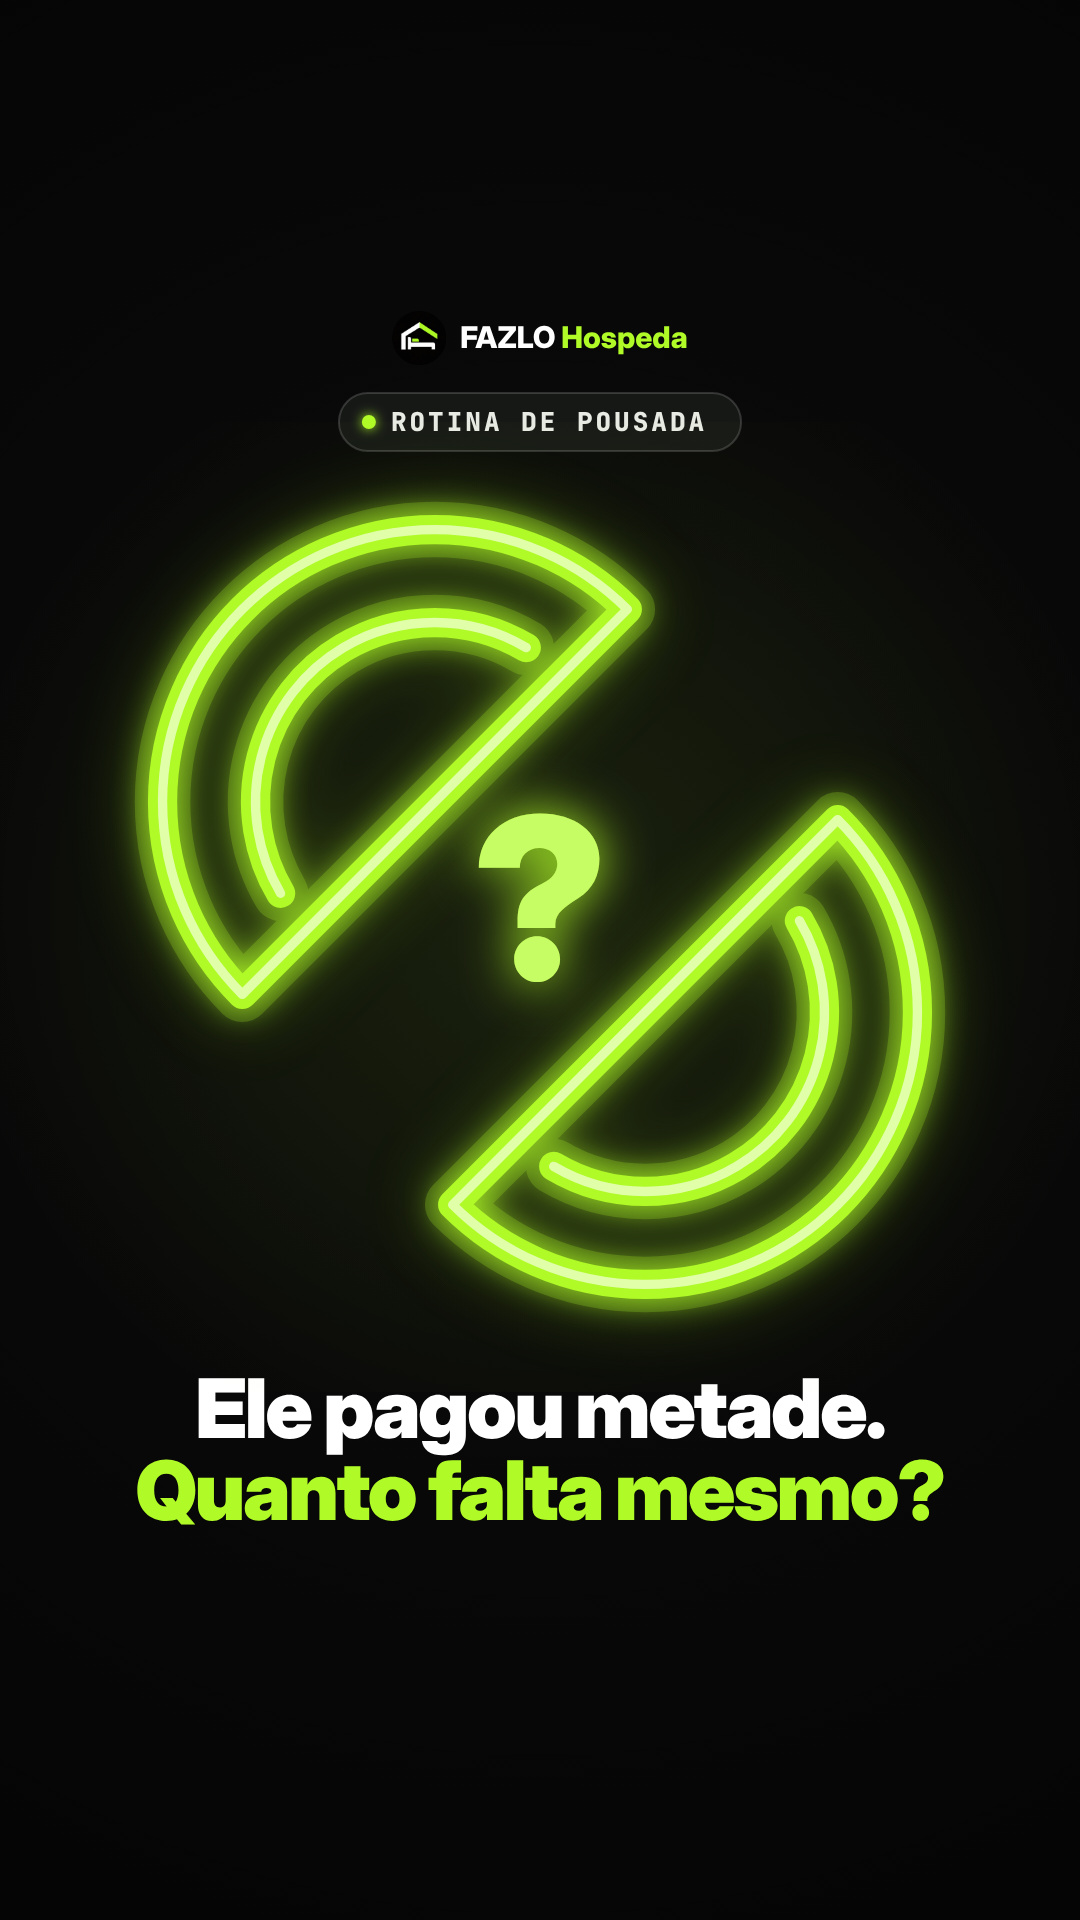
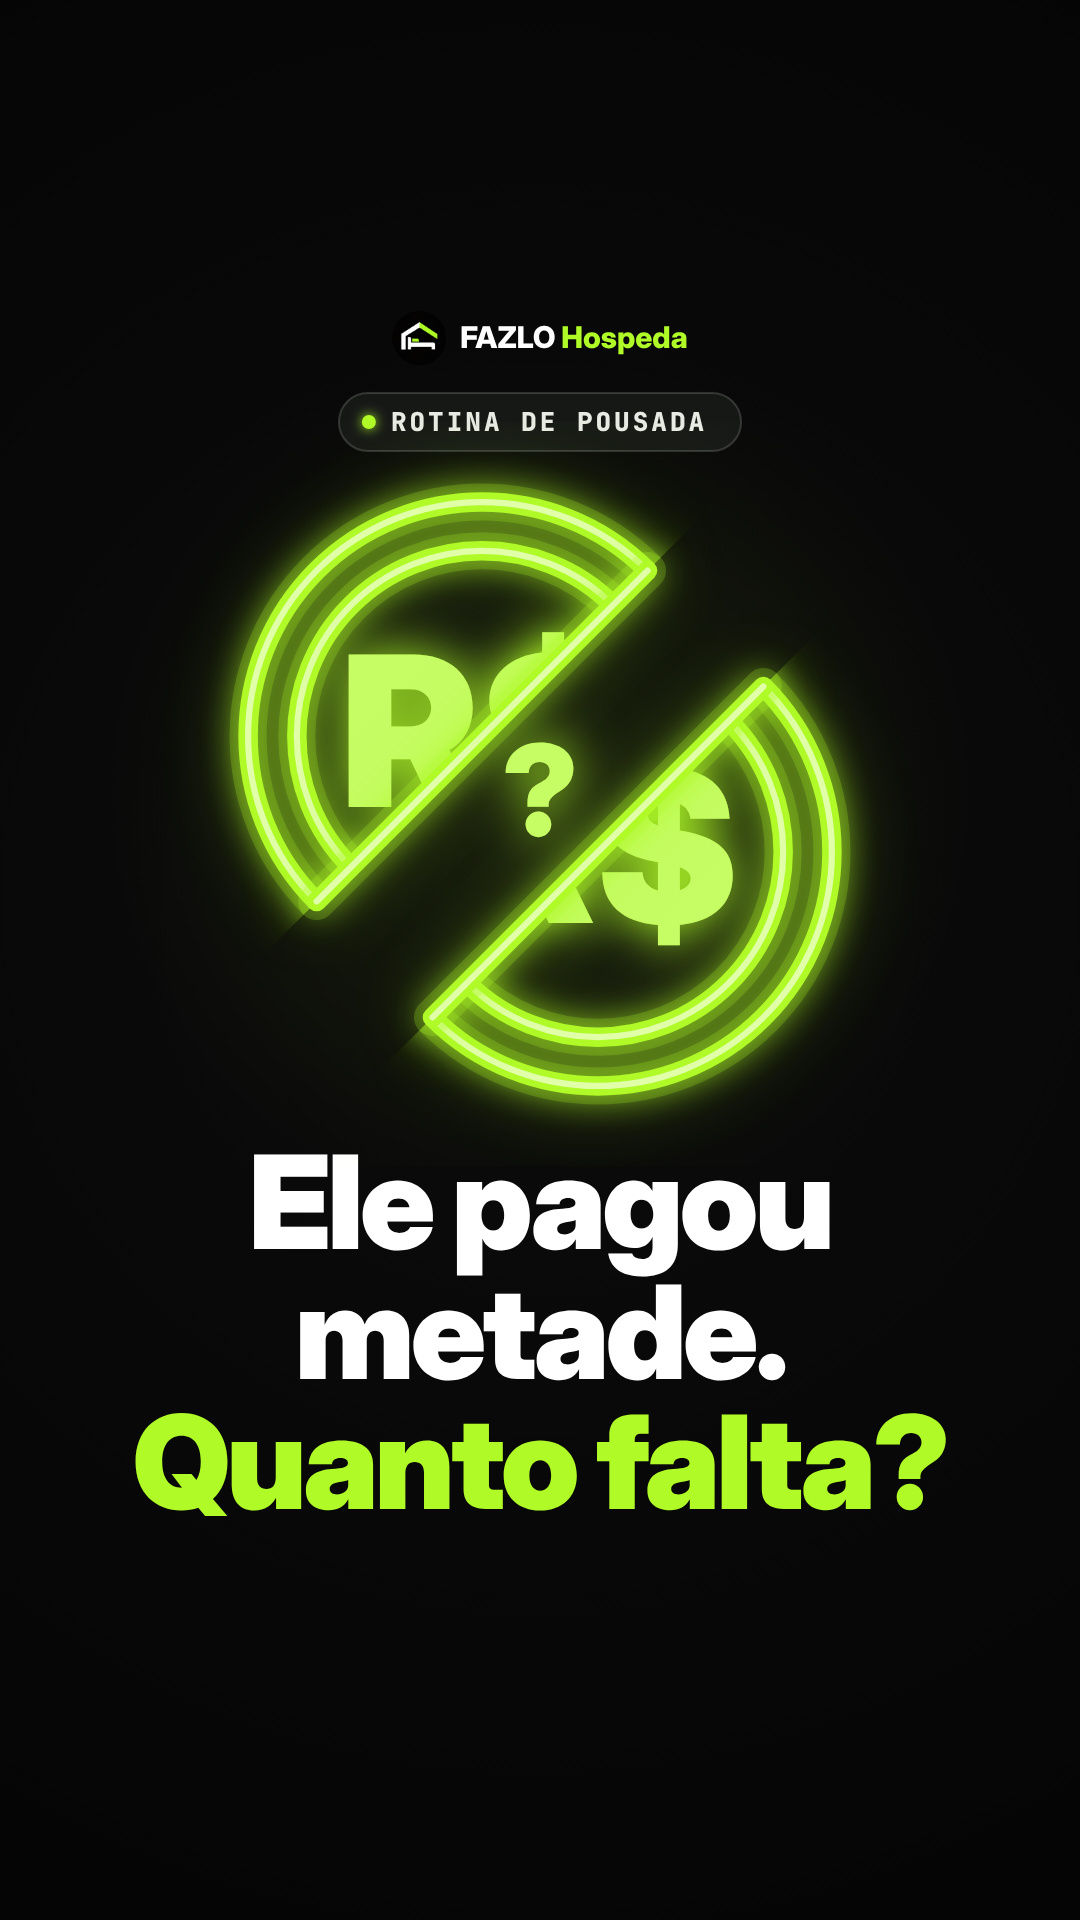
Capas v2 · 01: moeda reconhecível (aro duplo + R$ partido) e título em 3 linhas
Claude-Session: https://claude.ai/code/session_0128vGSavxvNhZe87z6nCNi2

Changed region(s): [[0.0917, 0.2188, 0.9167, 0.8125]]

diff --git a/reels/capas-v2/src/capa.js b/reels/capas-v2/src/capa.js
@@ -42,17 +42,25 @@
 
   // ---------------------------------------------------------------- as ilustrações (quadro de ±300)
   const ILUS = {
-    // uma moeda partida ao meio em diagonal, as metades afastadas, e um "?" entre elas
+    // uma MOEDA (aro duplo + "R$" grande) partida em diagonal, com o corte passando pelo meio do "R$";
+    // as metades se afastam e o "?" fica no vão
     moeda_partida(ctx) {
-      const R = 205, off = 112, n = [Math.SQRT1_2, Math.SQRT1_2];
-      const metade = (a0, a1, s) => (c) => {
-        const dx = s * off * n[0], dy = s * off * n[1];
-        c.moveTo(dx + R * Math.cos(a0), dy + R * Math.sin(a0)); c.arc(dx, dy, R, a0, a1); c.closePath();
-        c.moveTo(dx + 135 * Math.cos(a0 + 0.25), dy + 135 * Math.sin(a0 + 0.25)); c.arc(dx, dy, 135, a0 + 0.25, a1 - 0.25);
+      const R0 = 240, R1 = 190, off = 84, n = [Math.SQRT1_2, Math.SQRT1_2], dv = [Math.SQRT1_2, -Math.SQRT1_2];
+      const metade = (s) => {
+        ctx.save(); ctx.translate(s * off * n[0], s * off * n[1]);
+        // só o lado da metade (semiplano pelo corte), com o próprio traço do corte
+        ctx.beginPath(); const L = 900;
+        ctx.moveTo(-L * dv[0], -L * dv[1]); ctx.lineTo(L * dv[0], L * dv[1]); ctx.lineTo(L * dv[0] + s * L * n[0], L * dv[1] + s * L * n[1]); ctx.lineTo(-L * dv[0] + s * L * n[0], -L * dv[1] + s * L * n[1]); ctx.closePath();
+        ctx.clip();
+        neon(ctx, (c) => { c.moveTo(R0, 0); c.arc(0, 0, R0, 0, TAU); c.moveTo(R1, 0); c.arc(0, 0, R1, 0, TAU); }, 20);
+        neonTexto(ctx, 'R$', 0, 8, 215);
+        ctx.restore();
+        ctx.save(); ctx.translate(s * off * n[0], s * off * n[1]);
+        neon(ctx, (c) => { c.moveTo(-R0 * dv[0], -R0 * dv[1]); c.lineTo(R0 * dv[0], R0 * dv[1]); }, 20);
+        ctx.restore();
       };
-      neon(ctx, metade(-Math.PI / 4, (3 * Math.PI) / 4, 1));
-      neon(ctx, metade((3 * Math.PI) / 4, (7 * Math.PI) / 4, -1));
-      neonTexto(ctx, '?', 0, 4, 170);
+      metade(1); metade(-1);
+      neonTexto(ctx, '?', 0, 4, 130);
     },
     // três cadeados em fila; o do meio maior, com "R$" gravado
     tres_cadeados(ctx) {
@@ -137,11 +145,11 @@
     const n = c.titulo.length;
     let S = n >= 3 ? 150 : 176;
     const larg = (s) => { ctx.font = `900 ${s}px ${DISPLAY}`; ctx.letterSpacing = `${-0.03 * s}px`; return Math.max(...c.titulo.map((l) => ctx.measureText(l).width)); };
-    while (larg(S) > Z.larguraTitulo) S -= 2;
+    while (larg(S) > (c.largura_titulo || Z.larguraTitulo)) S -= 2;
     const lh = S * 1.0, ultima = Z.base - 0.24 * S, base = (i) => ultima - (n - 1 - i) * lh;
     ctx.textAlign = 'center'; ctx.textBaseline = 'alphabetic';
     c.titulo.forEach((l, i) => {
-      ctx.font = `900 ${S}px ${DISPLAY}`; ctx.letterSpacing = `${-0.03 * S}px`; ctx.fillStyle = i === 0 ? '#FFFFFF' : LIME;
+      ctx.font = `900 ${S}px ${DISPLAY}`; ctx.letterSpacing = `${-0.03 * S}px`; ctx.fillStyle = i < (c.limao_desde ?? 1) ? '#FFFFFF' : LIME;
       ctx.fillText(l, 540, base(i));
       const w = ctx.measureText(l).width;
       caixas[`título, linha ${i + 1}`] = { x0: 540 - w / 2, y0: base(i) - 0.76 * S, x1: 540 + w / 2, y1: base(i) + 0.22 * S };
